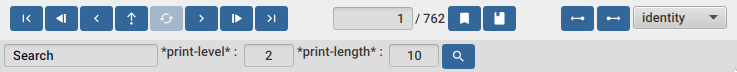
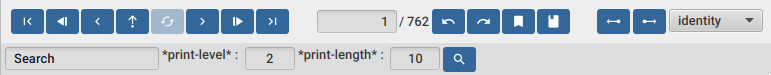
Implement a navigation undo/redo system
Closes #108

diff --git a/docs/user_guide.html b/docs/user_guide.html
@@ -1892,14 +1892,6 @@ You can use it to step over each expression, visualize values, locals and more.<
 </div>
 </div>
 <div class="paragraph">
-<p>The numbers at the center show <code>current_step_index / total_steps</code>. This means that a total of <code>total_steps</code> has been recorded
-for this thread so far. The buttons right next to it control the <a href="#_bookmarks">bookmarking system</a></p>
-</div>
-<div class="paragraph">
-<p>Write any number (less than total_steps) on the text box to jump into that position in time. When jumping around you can write down any interesting
-positions you find and then use this text box to jump back to it if you need.</p>
-</div>
-<div class="paragraph">
 <p>The code tool allows you to step and "travel thought time" in two ways:</p>
 </div>
 <div class="ulist">
@@ -1945,6 +1937,13 @@ positions you find and then use this text box to jump back to it if you need.</p
 <p>Jump to the last step of the recording.</p>
 </li>
 </ul>
+</div>
+<div class="paragraph">
+<p>The numbers at the center show <code>current_step_index / total_steps</code>. This means that a total of <code>total_steps</code> has been recorded
+for this thread so far. The buttons right next to it control undo/redo of the navigation system and the <a href="#_bookmarks">bookmarking system</a>.</p>
+</div>
+<div class="paragraph">
+<p>Write any number (less than total_steps) on the text box to jump into that position in time.</p>
 </div>
 </div>
 <div class="sect4">
@@ -3186,6 +3185,12 @@ distinguish between multiple debugger instances.</p>
 <li>
 <p><code>Ctrl-Shift-f</code> Copy current function call form</p>
 </li>
+<li>
+<p><code>Ctrl-z</code> Undo navigation</p>
+</li>
+<li>
+<p><code>Ctrl-r</code> Redo navigation</p>
+</li>
 </ul>
 </div>
 </div>
@@ -3428,7 +3433,7 @@ works with jdk &gt;= 17, and I think we still have a bunch of people on jdk 11.<
 </div>
 <div id="footer">
 <div id="footer-text">
-Last updated 2023-11-30 10:20:49 -0300
+Last updated 2023-11-30 14:50:05 -0300
 </div>
 </div>
 </body>

diff --git a/CHANGELOG.md b/CHANGELOG.md
@@ -5,7 +5,8 @@
 ### New Features 
 
     - Add a bookmarking system
-            
+    - Add navigation undo/redo system
+    
 ### Changes
     
 ### Bugs fixed
